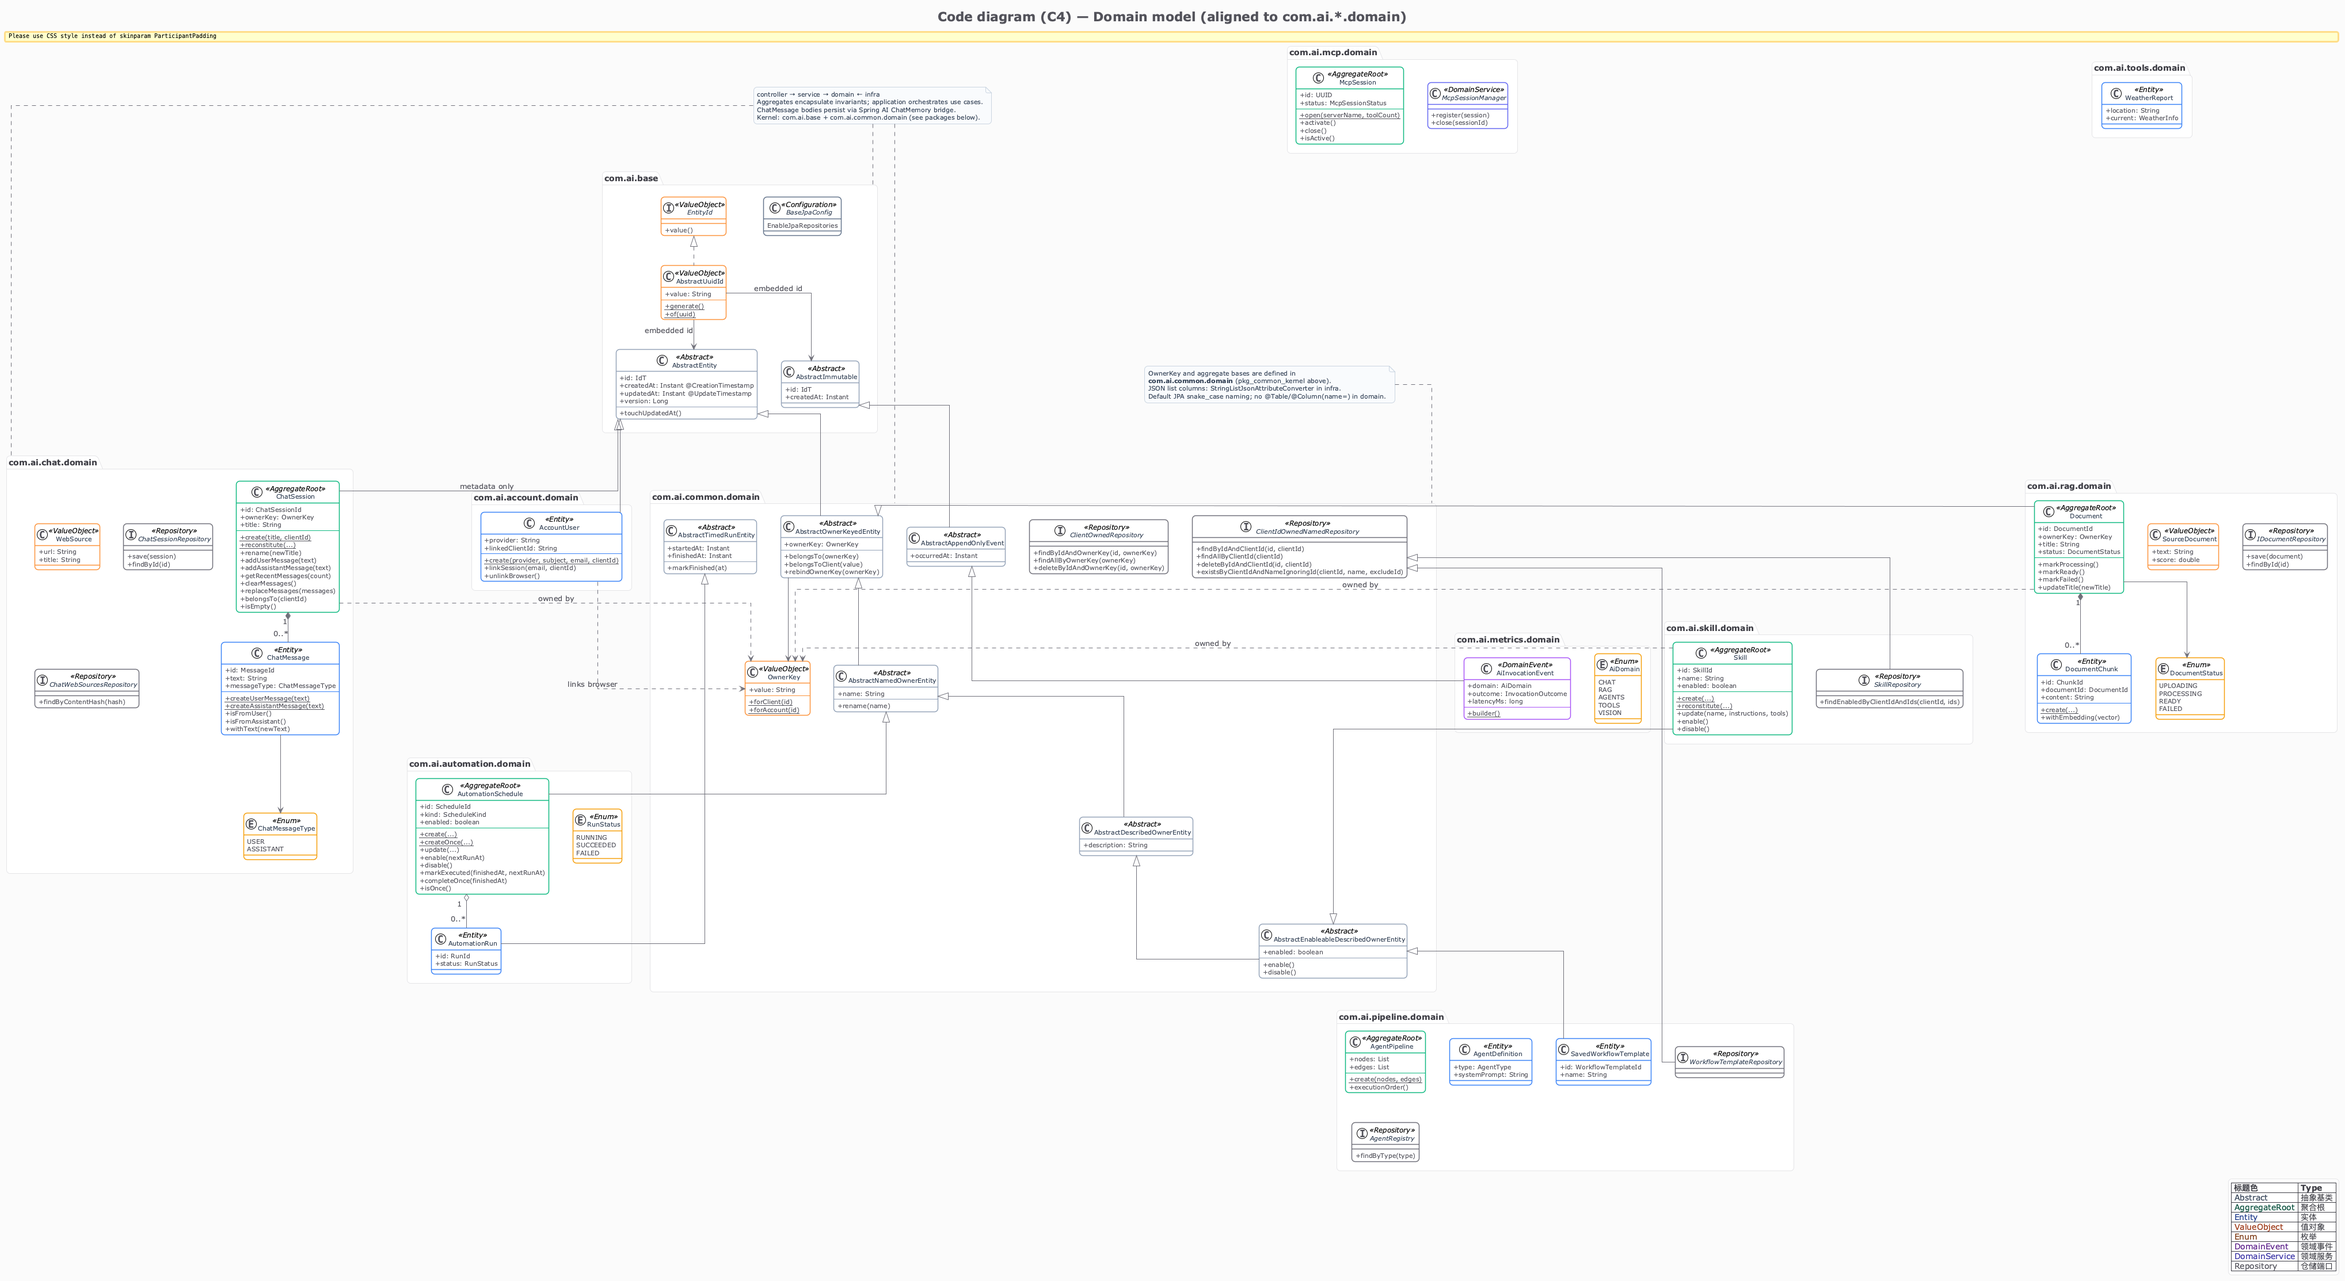
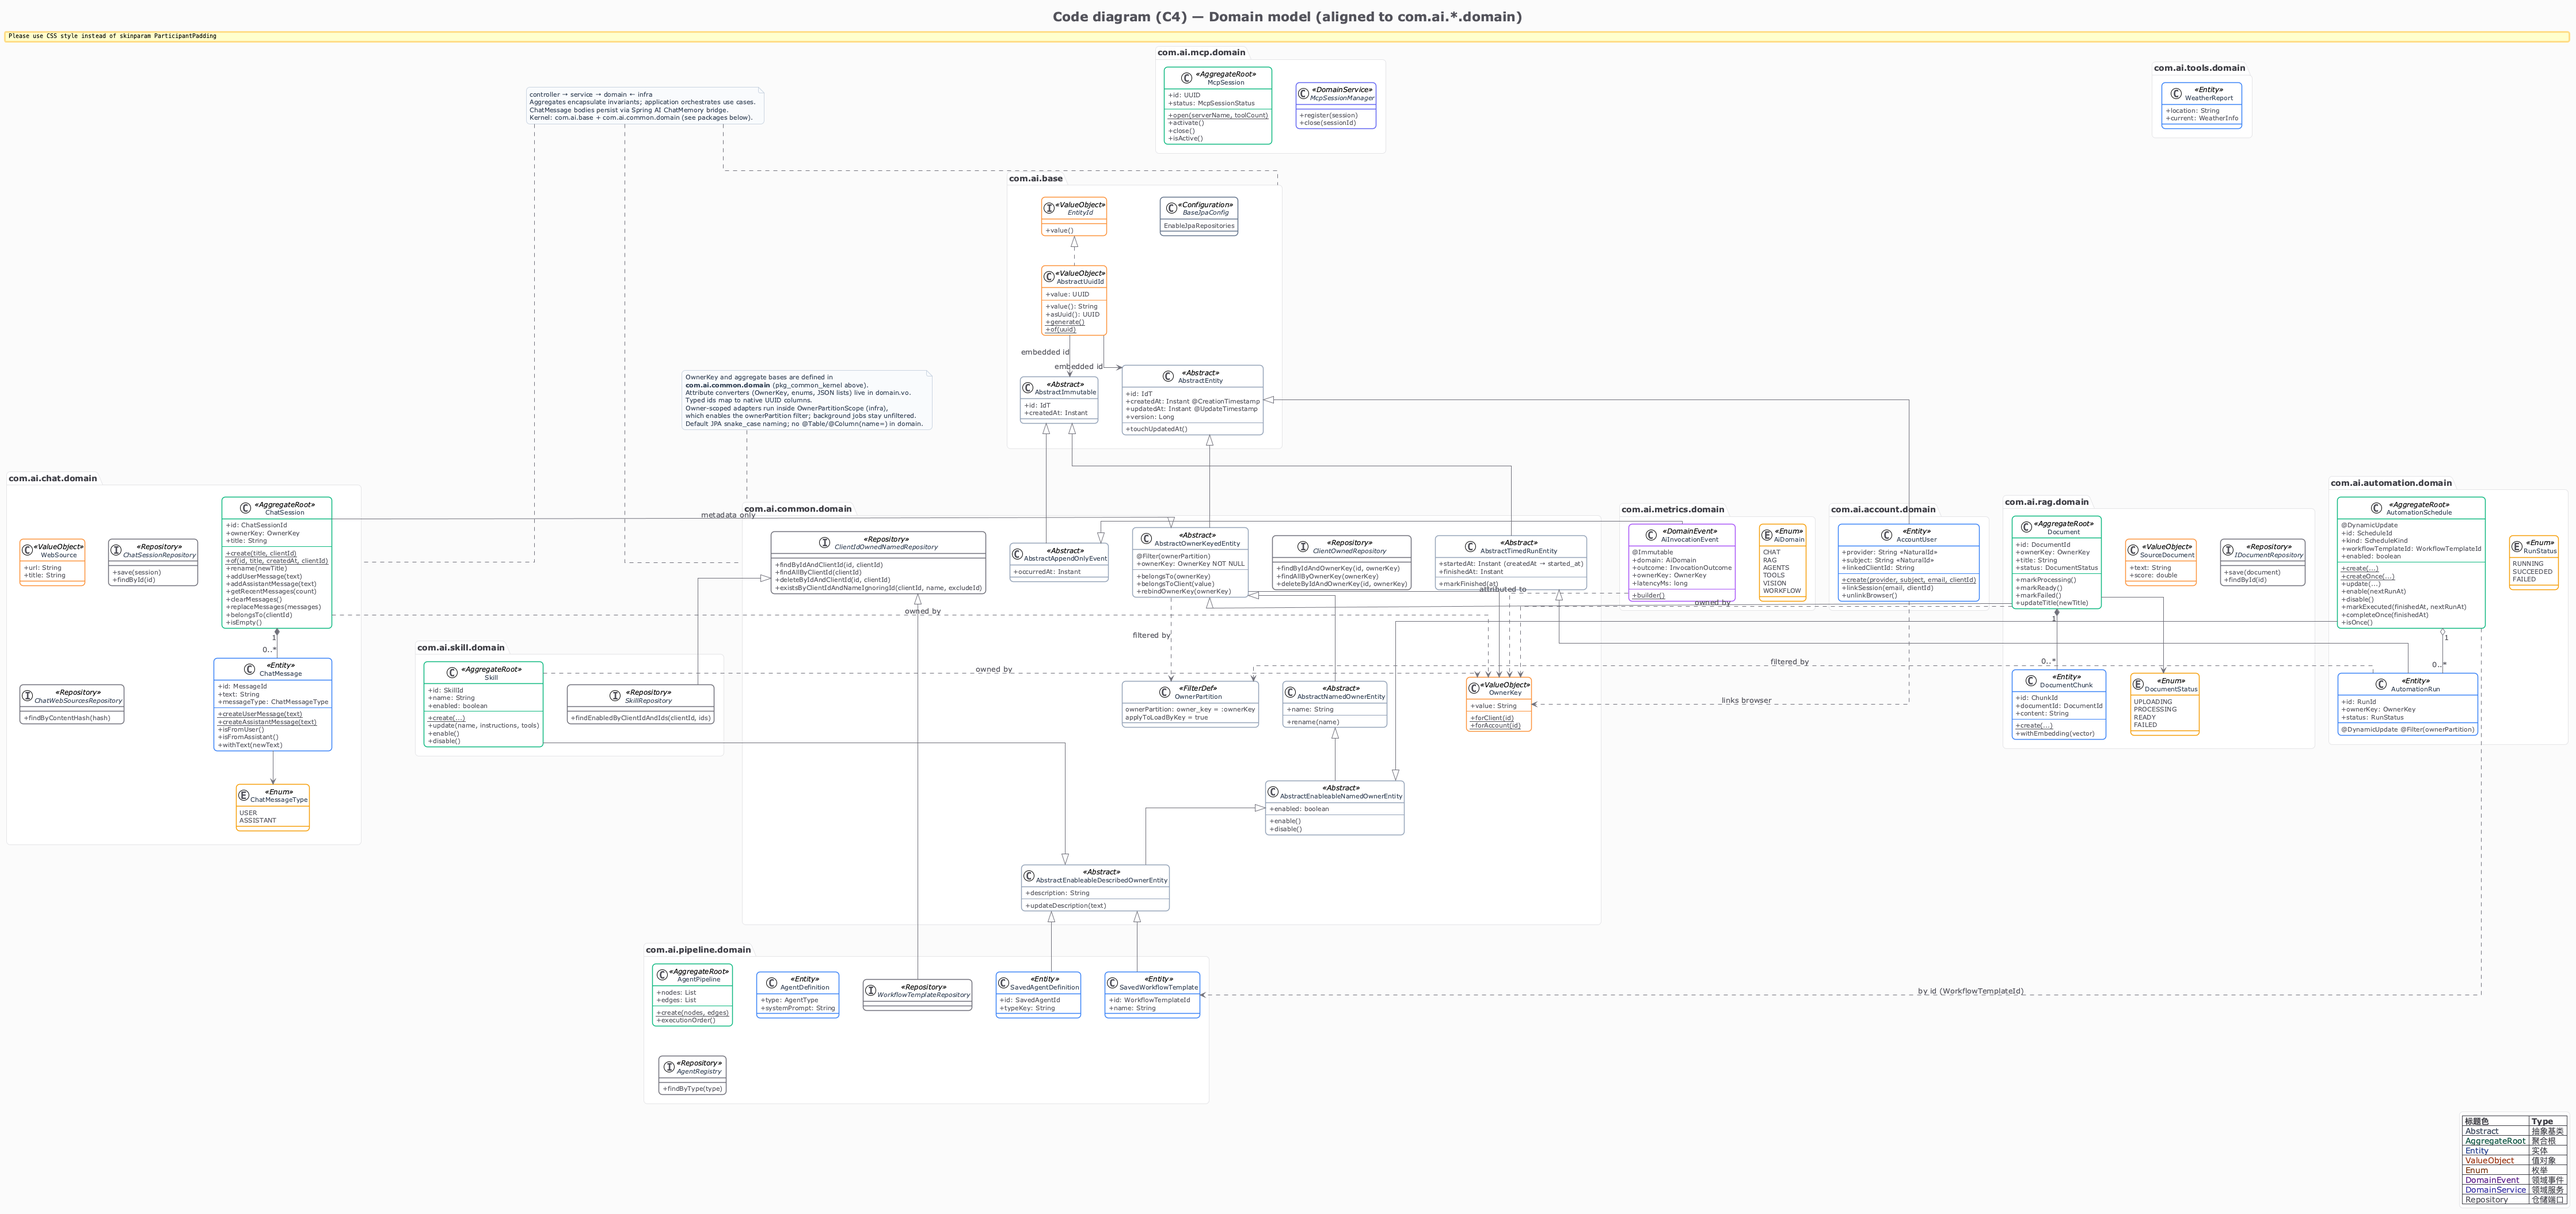
Sync C4 model with the persistence changes (#514)
The domain model diagram now shows the reworked kernel. The new
enableable named base sits under the described one, and the timed run
base extends AbstractImmutable. AbstractDescribedOwnerEntity is gone,
and ChatSession and AutomationSchedule have their new parents. It also
shows the @Immutable invocation event with its Owner Key, the
@NaturalId account user, the typed WorkflowTemplateId reference,
native UUID ids, and the ownerPartition filter.

C3 adds OwnerPartitionScope. C2 and the README name the JPA adapters
that replaced the JDBC ones and describe the persistence rules. The
PNGs were re-rendered with a larger size limit, since C2 and C3 had
been clipped at 4096 px. The Glossary kernel rows now match the code.

References:

- https://c4model.com/diagrams/code
- https://plantuml.com/faq

diff --git a/ai/docs/developer/c4-model/README.md b/ai/docs/developer/c4-model/README.md
@@ -98,7 +98,8 @@ Do not mix `C4_blue_new` into domain/dynamic diagrams（也不要把 `style-zinc
 - **架构**: Clean Architecture（`domain/repository/`，非 Hexagonal `domain/port/`）
 - **端口**: dev **9000** / prod **8080** (Render `PORT`)
 - **子域 (13)**: Chat / Pipeline / Skill / RAG / Tools / Analysis / Eval / Image / Image Analysis (`vision`) / Audio (TTS+ASR) / MCP Server / MCP Client / Metrics
-- **持久化**: H2 嵌入式（会话元数据 `JdbcChatSessionMetadataRepository` + 消息 `JdbcChatMemoryRepository` + 向量 + AI 调用事件 `ai_invocation_events`）
+- **持久化**: H2 嵌入式（会话元数据 `JpaChatSessionRepository` + 消息 `JdbcChatMemoryRepository` + 向量 + AI 调用事件 `ai_invocation_event`）
+- **JPA / Hibernate**: 归属聚合继承 `AbstractOwnerKeyedEntity`（`owner_key` NOT NULL，Liquibase `0.1-012` 回填遗留会话为 `c:legacy-orphan`）；按归属读取经 `OwnerPartitionScope` 启用 Hibernate `ownerPartition` 过滤器（`applyToLoadByKey`），后台任务不过滤；类型化 ID 映射原生 UUID 列；`AiInvocationEvent` 为 `@Immutable`；`AccountUser` 以 `@NaturalId`（provider + subject）查找
 - **功能开关**: LaunchDarkly（`ModuleAccessFilter` + `FeatureFlagService`）
 - **可观测性**: Datadog RUM（前端，可选）；APM javaagent 可选（Render Starter 512MB 默认关闭）
 - **外部服务 (cloud)**: DeepSeek API (LLM) / OpenAI API (DALL-E + TTS) / Serper.dev (Web 搜索) / Resend (Automations 邮件)
@@ -155,7 +156,7 @@ Worker 定义来自 Pipeline 内置目录：`AgentTemplateCatalog`（`classpath:
 | 概览 | `GET /api/metrics/overview` | `MetricsController`, `MetricsUseCase` |
 | 域快照 | `GET /api/metrics/domains/{domain}` | `JdbcMetricsQueryRepository` |
 | 时序 | `GET /api/metrics/series` | `SeriesSnapshot` |
-| 下钻 | `GET /api/metrics/drilldown` | `AiInvocationEvent`, `JdbcAiInvocationEventRepository` |
+| 下钻 | `GET /api/metrics/drilldown` | `AiInvocationEvent`, `JpaAiInvocationEventRepository`（JPA persist 写入，JDBC 下钻） |
 
 业务路径通过 `AiInvocationRecorder` 旁路写入 `ai_invocation_events`（Chat / RAG / Agents / Tools / Vision）。
 LLM 调用另由 Spring AI Micrometer Observation 导出 GenAI 语义指标（`/actuator/prometheus`）；业务域计数仍以 `AiInvocationRecorder` 为准。

diff --git a/ai/docs/Glossary.md b/ai/docs/Glossary.md
@@ -128,8 +128,8 @@ Shared persistence and aggregate bases. Feature modules inherit these types inst
 | Owner-Keyed Entity | 归属键实体基类 | Rows partitioned by `owner_key` | Mapped Superclass | `AbstractOwnerKeyedEntity<IdT>` | `belongsToClient`, `rebindOwnerKey` |
 | Owner Partition Filter | 归属分区过滤器 | Hibernate filter limiting queries and loads by id to one Owner Key | Persistence | `ownerPartition` (`OwnerPartition`), `OwnerPartitionScope` | Enabled per adapter call inside a transaction; background jobs stay unfiltered |
 | Named Owner Entity | 命名归属实体 | Owner-keyed row with validated `name` | Mapped Superclass | `AbstractNamedOwnerEntity<IdT>` | Max 120 chars via `DomainStrings` |
-| Enableable Entity | 可启用实体 | Named + described + `enabled` flag | Mapped Superclass | `AbstractEnableableDescribedOwnerEntity<IdT>` | `enable()` / `disable()` |
-| Timed Run Entity | 定时运行记录 | `started_at` / `finished_at` without `updated_at` | Mapped Superclass | `AbstractTimedRunEntity<IdT>` | Automation runs |
+| Enableable Entity | 可启用实体 | Named owner row with an `enabled` flag; the described variant adds `description` | Mapped Superclass | `AbstractEnableableNamedOwnerEntity<IdT>`, `AbstractEnableableDescribedOwnerEntity<IdT>` | `enable()` / `disable()`; schedules use the named variant |
+| Timed Run Entity | 定时运行记录 | `started_at` / `finished_at` without `updated_at` | Mapped Superclass | `AbstractTimedRunEntity<IdT>` | Extends Abstract Immutable (`createdAt` → `started_at`); automation runs |
 | Append-Only Event | 追加事件 | Immutable AI invocation / audit event | Mapped Superclass | `AbstractAppendOnlyEvent<IdT>` | Maps `createdAt` → `occurred_at` |
 | Client-Owned Repository | 归属仓储契约 | Owner-scoped CRUD port | Repository | `ClientOwnedRepository<E, IdT>` | `findByIdAndOwnerKey`, etc. |
 | Domain Strings | 域字符串校验 | Shared name/description normalization | Utility | `DomainStrings` | Replaces per-module copy-paste |
